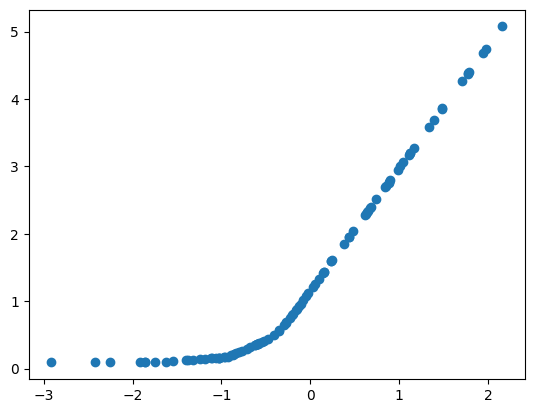
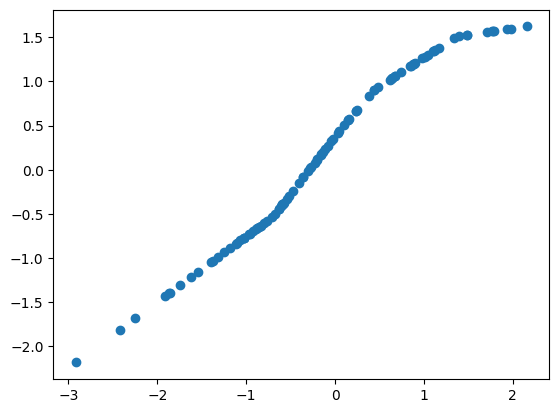
更新Backpropagation筆記

diff --git a/LearnAI/Backpropagation/AI基礎_Backpropagation.md b/LearnAI/Backpropagation/AI基礎_Backpropagation.md
@@ -54,8 +54,8 @@ plt.scatter(X, Y)
 ```py
 class Linear():
     def __init__(self, inDim: int, outDim: int):
-        self.weight = np.random.rand(inDim, outDim)
-        self.bias = np.random.rand(1, outDim)
+        self.weight = np.random.uniform(-1, 1, size = [inDim, outDim])
+        self.bias = np.random.uniform(-1, 1, size = [1, outDim])
     def __call__(self, x: np.ndarray):
         out = x.dot(self.weight) + self.bias
         return out
